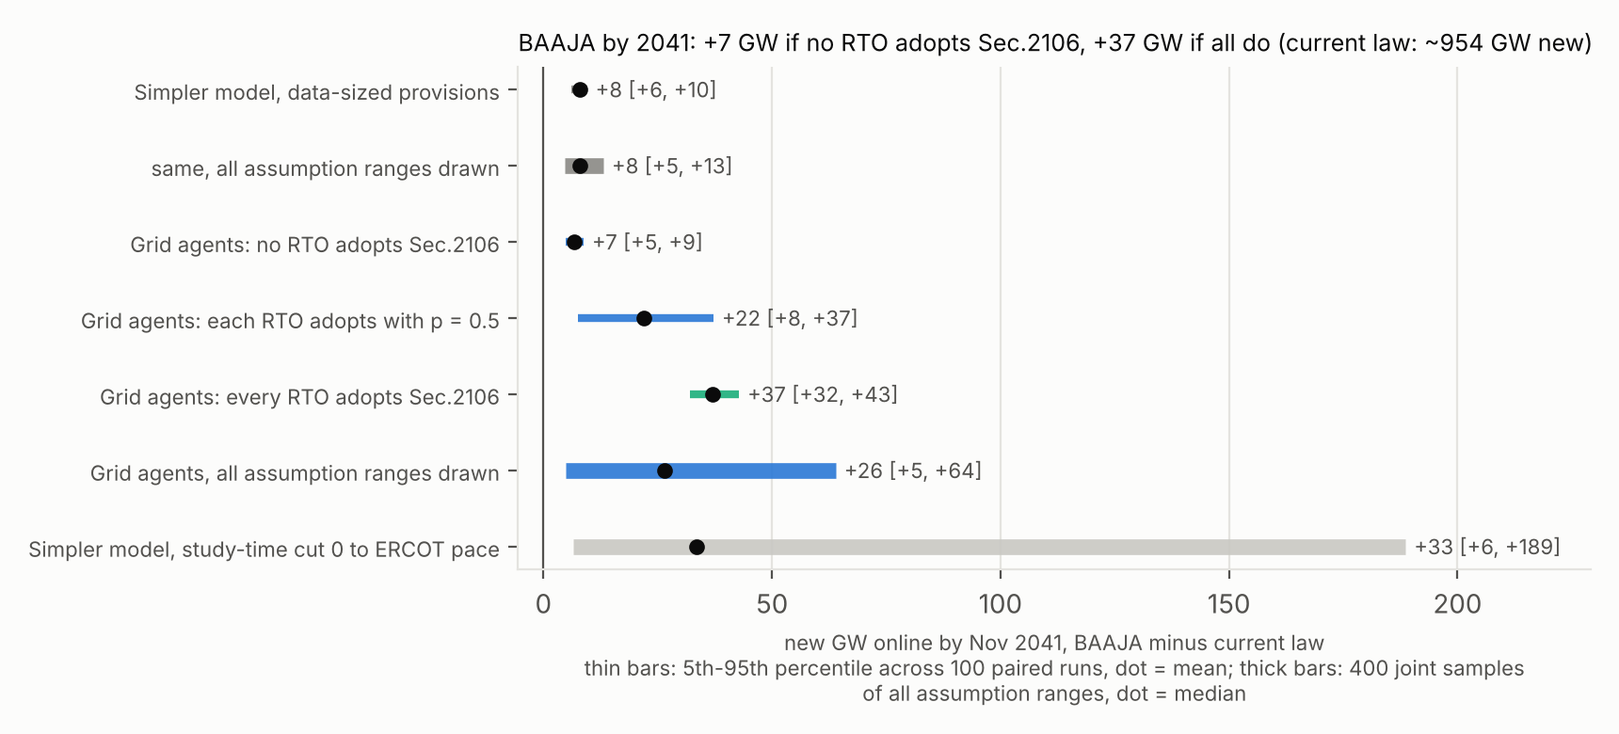
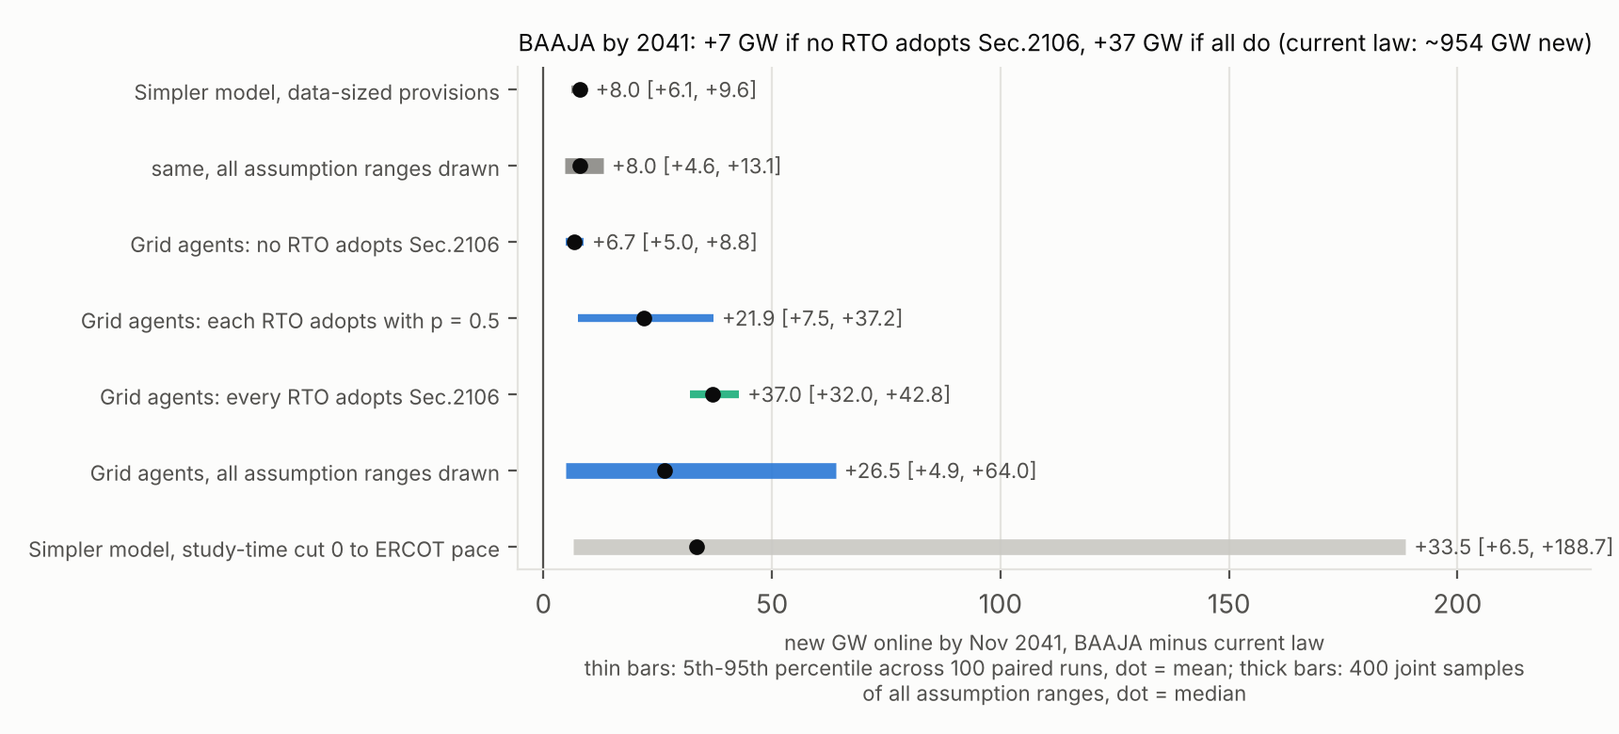
Fix the numbers audit's findings in the brief, README, ODD and Sim 7 report
Completion-fit and hold-bound statements corrected, bill-share range, the four
missing sensitivity rows, one-decimal figure labels, the region list at the
hold bound computed from the fit, and stale README backcast values.

Claude-Session: https://claude.ai/code/session_01GDxCQ74zWfkXRRHvDcr5pD

diff --git a/baaja/sims/sim7_grid_agents.py b/baaja/sims/sim7_grid_agents.py
@@ -215,6 +215,9 @@ def run(n_runs, cal, res_dir, fig_dir, sweep_runs=None):
     t_vm = table(["technology", "region", "value scale (fitted to completion)"],
                  [[*(k.split("|") if "|" in k else (k, "all (pooled)")), f"{v:.2f}"]
                   for k, v in sorted((gc.get("value_mult") or {}).items())])
+    lags = gc.get("exit_lag") or {}
+    bound = [r for r, v in lags.items() if v >= 239.5]
+    at_bound = ", ".join(bound[:-1]) + " and " + bound[-1] if len(bound) > 1 else (bound[0] if bound else "no region")
     t_hz = table(["region", "background withdrawal hazard, %/month: first 12 months", "after 12 months, to construction",
                   "mean hold after an adverse study result, months"],
                  [[r, *(f"{100 * x:.2f}" for x in (v if np.ndim(v) else (v, v))),
@@ -292,7 +295,7 @@ def run(n_runs, cal, res_dir, fig_dir, sweep_runs=None):
         "longer fixed by the 2021-25 request mix, but fewer projects get through the queue overall.",
         t_adq,
         t_adr,
-        "## By region (requests made 2026-30; mean across runs)",
+        "## By region (requests made in the first five model years, Nov 2026 to Oct 2031; mean across runs)",
         t_reg,
         "## Validation",
         "### Grid operators: months from request to signed agreement, by request year (LBNL)",
@@ -300,12 +303,12 @@ def run(n_runs, cal, res_dir, fig_dir, sweep_runs=None):
         "squared difference in the share signed by Dec 2025, by cohort. Regions without reliable agreement dates take "
         "the joint MISO+CAISO fit.",
         t_ops,
-        "### Developers: share of requests withdrawn by months after request (2015-19 cohorts vs model 2026-30)",
+        "### Developers: share of requests withdrawn by months after request (2015-19 cohorts vs model requests of Nov 2026 to Oct 2031)",
         "Withdrawal is fitted in the 2010-25 backcast, where model and data cohorts are the same requests (Phase 3; "
         "results/backcast.md): a first-year hazard, a later hazard and a hold after an adverse study result, by region, "
-        "to LBNL's 12-, 36- and 60-month shares; 24 months is a check. This table shows the forward 2026-30 cohorts under "
+        "to LBNL's 12-, 36- and 60-month shares; 24 months is a check. This table shows the forward cohorts of the first five model years under "
         "current law next to the 2015-19 data for comparison only: the queue they face is different, so they need not match. "
-        "In CAISO, ISO-NE, MISO and NYISO the fitted hold reaches its 20-year bound: developers with an adverse result stay "
+        f"In {at_bound} the fitted hold reaches its 20-year bound: developers with an adverse result stay "
         "in the queue past 2025, and the data cannot tell a long hold from never withdrawing. Sec.2106(a)(3)'s single "
         "decision point and withdrawal penalties shorten the hold (lag_2106).",
         t_wd,

diff --git a/baaja/brief_figures.py b/baaja/brief_figures.py
@@ -36,7 +36,7 @@ def headline(res_dir, path):
         mid = b.get("p50", b["mean"])
         ax.plot([b["p5"], b["p95"]], [i, i], color=c, lw=6 if kind == "joint" else 3, solid_capstyle="butt", alpha=.9)
         ax.plot(mid, i, "o", color=INK, ms=5)
-        ax.text(b["p95"] + (hi - lo) * .01, i, f"{mid:+.0f} [{b['p5']:+.0f}, {b['p95']:+.0f}]", va="center", fontsize=8, color=INK2)
+        ax.text(b["p95"] + (hi - lo) * .01, i, f"{mid:+.1f} [{b['p5']:+.1f}, {b['p95']:+.1f}]", va="center", fontsize=8, color=INK2)
     ax.set_yticks(range(len(rows)), [x[0] for x in rows[::-1]], fontsize=8)
     ax.axvline(0, color=INK2, lw=.8)
     ax.set_xlim(min(lo, 0) - (hi - lo) * .03, hi + (hi - lo) * .22); ax.grid(axis="y", visible=False)
@@ -62,7 +62,7 @@ def regions(res_dir, path):
         x = np.arange(len(regs)) + (j - 1) * w
         ax.bar(x, v, w * .95, color=c, label=lab)
         for xi, vi in zip(x, v):
-            ax.text(xi, vi + (.3 if vi >= 0 else -1.2), f"{vi:.0f}", ha="center", fontsize=6.5, color=INK2)
+            ax.text(xi, vi + (.3 if vi >= 0 else -1.2), f"{vi:.1f}", ha="center", fontsize=6, color=INK2)
     ax.set_xticks(range(len(regs)), regs, fontsize=8); ax.grid(axis="x", visible=False); ax.axhline(0, color=INK2, lw=.8)
     ax.set_ylabel("new GW by 2041 vs current law")
     ax.set_title("Grid agents, by region (Sec.2106 applies only in RTO/ISO markets, not ERCOT, the Southeast or the West)",

diff --git a/docs/brief.md b/docs/brief.md
@@ -23,7 +23,7 @@ non-refundable security and withdrawal penalties keep out. If they keep out half
 quarter, Sec.2106 adds nothing. How the screen is specified matters too: I first specified it as an absolute
 threshold on each request's chance of completing, and under that version the bill reduces capacity by 2 GW. I
 changed to the relative version after seeing those results (section 2), and report both. Drawing every assumption
-range together gives a median of 26.5 GW [4.9, 64.0].
+range together gives a median of 26.5 GW [4.9, 64.0] (5th-95th percentile of 400 joint samples).
 
 Little changes before the early 2030s. The model assumes reformed interconnection studies start about three years
 after enactment (range two to four; the bill gives FERC 18 months for the rule and RTOs two years to file), and that
@@ -39,7 +39,7 @@ in 2041, most of it in PJM, where NERC's margin rises from 18.6% to 35.1%. BAAJA
 [0.3, 6.4]. The shortfall is a benchmark against NERC's planning margins, not a forecast of outages, and the bill
 does not close it.
 
-The bill's gain in clean capacity here, 16.9 GW of renewables and storage by November 2041, is at the low end of
+The bill's gain in clean capacity here, 16.9 GW of renewables and storage by November 2041, is just below the low end of
 Rhodium Group's 17 to 249 GW through 2040 and well below Resources for the Future's figure of about 60 GW by 2028.
 The difference has several sources that cannot be separated from outside: both studies expand transmission under
 the bill and this model does not plan any; RFF attributes its near-term gain mainly to permit certainty; and each
@@ -55,7 +55,7 @@ BAAJA is a permitting and transmission bill. The provisions that bear on generat
 | group | main sections modelled | what changes in the model |
 |---|---|---|
 | Permitting | 1105-1106 and 1108 (level of review; one-year EA and two-year EIS deadlines), 1202 (one-year Clean Water Act s.401 clock), 1302 (ESA consultation timeline), 2213 (federal-land rights-of-way clocks), 2229 | months to a federal permit |
-| Courts | 1110 and 2201 (150-day limit to sue, comment exhaustion, remand without vacatur); 1134, 1205 and 1305 extend the same limits to other statutes | how many suits are filed and how many halt a project |
+| Courts | 1110 and 2201 (150-day limit to sue, comment exhaustion, remand without vacatur); 1134 extends the same limit to FAST-41 claims (1205 and 1305, for s.404 and ESA opinions, are listed but not modelled separately) | how many suits are filed and how many halt a project |
 | Permit certainty | 1401 | whether a permit can be revoked or suspended after issue |
 | Grid access | 2106 (interconnection reform in RTOs/ISOs), 2110 (study automation), 2109 (advanced transmission technologies), 2101, 2102(a) and 2214 (transmission permitting) | who enters the interconnection queue, who leaves it, how long studies take, how much hosting room the grid has |
 
@@ -128,14 +128,15 @@ from the queue. Its results appear alongside as a check and are labelled as such
 All inputs are public. Sources, retrieval dates and file hashes are in `data/SOURCES.md`.
 
 - Interconnection: LBNL *Queued Up* workbook (requests through 2025) and LBNL interconnection-cost studies for MISO,
-  PJM, SPP, NYISO and ISO-NE. The CAISO, MISO and NYISO queue files were downloaded for cross-checks but are not
+  PJM, SPP, NYISO, ISO-NE and non-ISO balancing areas (used for the Southeast and West). The CAISO, MISO and NYISO queue files were downloaded for cross-checks but are not
   used.
 - Permitting: CEQ EIS timelines, BLM MLRS rights-of-way cases, Army Corps permit data.
-- Courts: 1,821 NEPA cases decided 2001-22; Sabin Center renewable-opposition database.
+- Courts: 1,821 NEPA cases filed 2001-22; Sabin Center renewable-opposition database.
 - Fleet, retirements and generation: EIA-860 (2015-2025), EIA-860M, EIA-923.
 - Demand and adequacy: NERC 2025 Long-Term Reliability Assessment; PJM ELCC class ratings.
 - Bill text: the Senate floor copy of S.Amdt. 6883 (KAT26804 V62), checked against the engrossed Senate amendment to
-  H.R. 2347 (GovInfo, BILLS-119hr2347eas). Every modelled section is identical word for word.
+  H.R. 2347 (GovInfo, BILLS-119hr2347eas). Sections 1105, 1106, 1108, 1110, 1202, 1302, 1401, 2106-2110, 2201, 2213 and 2229
+  are identical word for word; the other modelled sections were not compared.
 
 ## 4. Results
 
@@ -152,8 +153,8 @@ excludes relicensed hydro, which is reported separately.
 | BAAJA, every RTO changes its process | +37.0 [+32.0, +42.8] | +24.7 | +9.2 | +3.1 |
 | BAAJA, central, plus a 25% study-throughput gain under Sec.2110 | +37.4 [+26.1, +49.3] | +23.3 | +8.4 | +5.8 |
 
-Current law brings about 954 GW of new capacity online by November 2041 [939, 972]. The bill adds 2% to 4% to that,
-depending on how many RTOs change their process. The first row, which keeps every provision except Sec.2106, contains
+Current law brings about 954 GW of new capacity online by November 2041 [939, 972]. The bill adds 0.7% to 3.9% to that
+(2.3% in the central case), depending on how many RTOs change their process. The first row, which keeps every provision except Sec.2106, contains
 Titles I and II (permitting and courts), Sec.2109 and Sec.2110 at zero; Sec.2109's extra hosting room adds about 4 GW
 to the central case (+17.8 GW without it). Relicensed hydro that returns to service sooner adds a further 1.8 GW in
 every bill scenario.
@@ -179,7 +180,7 @@ first row.
 The bill adds under 1 GW before 2033. The permitting and court provisions add a little each year from the start.
 Sec.2106 applies only to requests made after the rule takes effect (late 2029 in the central case), and the first of
 those come online in 2033. Current-law additions peak at 118 GW in 2029, while the queue standing at the end of 2025
-is being built, then settle around 45 to 60 GW a year.
+is being built, then settle at 44 to 62 GW a year.
 
 ### 4.3 Where
 
@@ -190,10 +191,10 @@ GW. ERCOT, the Southeast and the non-ISO West gain 0.5 to 1.9 GW each from the p
 
 PJM gains almost nothing from Sec.2106: 0.5 GW in the central case and 0.7 GW if every RTO changes its process, the
 same as with Sec.2106 off. If every RTO changes its process, Sec.2106 does shorten PJM's studies (from 30 to 28 months to
-agreement) and raise the share of requests that sign, but the entry screen offsets it. The screen keeps out the requests least likely to complete as
+agreement, median for requests made in the first five years) and raise the share of requests that sign, but the entry screen offsets it. The screen keeps out the requests least likely to complete as
 ranked by their private value. In PJM, whether a request completes depends more on its upgrade-cost draw than on its
-value: 13.7% of PJM requests in LBNL's cost study pay no network upgrade, and PJM's cost spread is the widest of the
-regions with LBNL cost studies. So in PJM the screen also keeps out requests that would have completed. In a diagnostic run
+value: 13.7% of PJM requests in LBNL's cost study pay no upgrade cost at all, and PJM's cost spread is the widest of the
+five ISOs with LBNL cost studies (log standard deviation 1.50, against 1.39 or less). So in PJM the screen also keeps out requests that would have completed. In a diagnostic run
 without the screen, PJM gains from Sec.2106 as MISO does. This is a property of the modelled screen, which treats a
 deposit as screening on value, and a deposit that screened on cost information would behave differently.
 
@@ -230,8 +231,9 @@ BAAJA reduces the 2035 shortfall by 3.1 GW [0.3, 6.4] in the central case and by
 process; by 2041 the reductions are 5.7 and 10.3 GW. The bill does not close the gap. Most of the shortfall is in PJM,
 where the bill adds little (section 4.3). The simpler model, with historical study times (Sim 6,
 `results/sim6_supply.md`), shows MISO and ISO-NE first falling below their margins in 2027 (median first year across
-runs) and staying close to them: in 2035 MISO's reserve margin is 8.4% against a Reference Margin Level of 8.9%, and
-ISO-NE's 11.8% against 13.0%, below the level in 66% and 71% of runs.
+runs; MISO's margin is 0.8% against 8.3% that year) and close to them by 2035: MISO's reserve margin is then 8.4%
+against a Reference Margin Level of 8.9%, and ISO-NE's 11.8% against 13.0%, below the level in 66% and 71% of runs.
+With the grid agents the 2035 margins are lower, 5.2% in MISO and 11.0% in ISO-NE.
 
 These figures are a benchmark against planning margins. They are not a forecast of outages: apart from developers entering faster where a shortfall is projected,
 the model has no response from prices, no demand response beyond NERC's forecast and no delayed retirements, all of
@@ -258,6 +260,10 @@ draws every assumption at once, 400 Latin-hypercube samples, and splits the vari
 | cost rise for remaining requests per withdrawn MW (0.1 / 0.6) | +13.6 / +21.5 |
 | share able to use a published location (0.25 / 0.9) | +16.9 / +18.3 |
 | fee as a multiple of expected upgrade cost (1.5 / 0.8) | +16.8 / +18.4 |
+| hosting room added per transmission project, GW (0.5 / 3.0) | +14.4 / +22.0 |
+| entry response to the region's projected shortfall (0 / 3) | +18.0 / +14.7 |
+| entry response to the published wait (0 / 1) | +16.7 / +18.4 |
+| hold after an adverse study result under Sec.2106, relative to current law (0 / 1) | +17.4 / +17.4 |
 
 The bill's effect is most sensitive to the assumptions about how Sec.2106 and Sec.2110 are carried out, none of which
 the statute sizes. Upgrade-cost growth (`kappa`) matters more for the level of current law than for the bill's
@@ -272,7 +278,7 @@ in RTOs that changed their process in that sample, followed by the Sec.2110 gain
 upgrade-cost growth (6%) and Sec.2109 hosting room (6%). Split by the adoption that happened, the median is +13.3 GW
 when no RTO changed its process, +26.5 GW when some did and +39.3 GW when all did.
 
-In the simpler model, with Sec.2106 and Sec.2110 at zero, the result is +8.0 GW [+4.6, +13.1], and 52% of its
+In the simpler model, with Sec.2106 and Sec.2110 at zero, the result is a median of +8.0 GW [+4.6, +13.1], and 52% of its
 variance comes from one assumption: the share of new applications for rights-of-way on federal land whose Sec.2213
 intake deadlines are met. When that model's study-time cut for Sec.2106 is instead drawn from zero to ERCOT's pace, the range becomes
 +33.5 GW [+6.5, +188.7], with 76% of the variance from that cut alone. That is the gap the grid-agent model was built
@@ -282,8 +288,9 @@ data, and narrows the upper end from 189 to 64 GW.
 ## 6. Validation
 
 The model was run from January 2010 to December 2025 under current law and compared with what happened
-(`results/backcast.md`, `results/calibration.json`). It passes some tests and fails others, and the failures bear on
-the result.
+(`results/backcast.md`, `results/calibration.json`). Following the pattern-oriented approach (Grimm et al. 2005;
+Windrum et al. 2007), it is checked against several patterns at once, some of them left out of the fit. It passes some
+tests and fails others, and the failures bear on the result.
 
 What was fitted, and to what. Grid operators' study throughput was fitted to LBNL request-to-agreement times for
 2010-19 cohorts; CAISO, ERCOT and MISO have their own fit, and the other six regions, which lack reliable agreement
@@ -297,14 +304,17 @@ National additions, 2018-25 (EIA-860, not used in fitting). The agents produce 6
 127.2 GW), 82% of onshore wind, 80% of gas and 45% of storage (19.5 vs 43.1 GW). The simpler model with historical
 study times does better (82%, 100%, 84% and 108%). Both miss the 2024-25 jump in solar (31 and 30 GW in EIA); the agents also miss the jump in storage. By region, the
 weighted mean absolute log ratio of model to EIA additions is 0.51 for the agents and 0.42 for the simpler model;
-MISO, where much of the Sec.2106 effect sits, has a ratio of 0.51, and storage in PJM is 3.9 GW in the model against
+MISO, where much of the Sec.2106 effect sits, builds 0.51 of EIA's additions (24.0 against 46.8 GW), and storage in PJM is 3.9 GW in the model against
 0.4 GW in EIA.
 
 ![Backcast: model vs EIA-860 additions, 2018-25](../figures/brief_5_backcast.png)
 
-Completion by technology and region. All but one cell fits within a third of the LBNL rate. ERCOT storage completes
-at 18.4% in the model against 11.7% in the data. Its value scale is at the lower bound of its range, and 17% of
-ERCOT requests have no network-upgrade cost, so even the lowest value leaves too many completing. Five value scales
+Completion by technology and region. Of the 28 cells with an LBNL completion rate of at least 5%, all but two are
+within 35% of it. ERCOT storage completes at 18.4% in the model against 11.7% in the data: its value scale is at the
+lower bound of its range, and 17% of requests in the pooled ISO cost sample that stands in for ERCOT (LBNL has no
+ERCOT cost study) have no upgrade cost, so even the lowest value leaves too many completing. Geothermal outside the
+West completes at 25.3% against 13.7%. Below 5%, storage in SPP and MISO and offshore wind miss by more than a third,
+each by under 2 points. Five value scales
 sit at that lower bound (solar in SPP; storage in ERCOT, PJM and SPP; offshore wind), so in those cells the fitted
 value is a corner, not an estimate.
 
@@ -313,8 +323,8 @@ by at most 0.05 in every region. The 2020-23 cohorts, used in no fit, are a diff
 0.59 in CAISO against 0.12 in the data, 0.30 in PJM against 0.13, 0.40 in NYISO against 0.72 and 0.09 in the West
 against 0.33. The data's withdrawal rates for these cohorts differ from 2015-19 in both directions, and the model's
 hazards, fixed at their 2015-19 values, do not follow them. The fitted hold after an adverse study result is at its
-240-month upper bound in five of nine regions, which means the model finds no hold short enough to fit those regions'
-60-month shares; it delays when a withdrawal is recorded rather than whether it happens.
+240-month upper bound in five of nine regions, which means no hold within the bound is long enough to bring those regions' 60-month withdrawal shares
+down to the data (MISO 0.74 against 0.62); it delays when a withdrawal is recorded rather than whether it happens.
 
 Study times out of sample. MISO's lengthening from about 21 to 45 months, between the 2010 and 2019 cohorts, falls within the fitted
 cohorts. For the

diff --git a/README.md b/README.md
@@ -164,7 +164,7 @@ on the same requests; EIA-860 additions by region use nameplate capacity (region
 | 2018-25 additions, model / EIA-860 | solar | onshore wind | gas | storage |
 |---|---|---|---|---|
 | Exogenous grid (Sims 1-6) | 0.82 | 1.00 | 0.84 | 1.08 |
-| Grid agents (Sim 7) | 0.67 | 0.81 | 0.80 | 0.42 |
+| Grid agents (Sim 7) | 0.68 | 0.82 | 0.80 | 0.45 |
 
 - **By region** the error is larger than nationally: weighted mean absolute log ratio across regions 0.42 (exogenous)
   and 0.51 (agents). Both models put too little solar and storage in ERCOT and CAISO and too much in PJM, ISO-NE and
@@ -174,7 +174,7 @@ on the same requests; EIA-860 additions by region use nameplate capacity (region
   request to operation in the agents (39-60 with the exogenous grid), so many finish after 2025. Most of the gap is
   in CAISO and ERCOT and is the same gap as "completed projects are not selected for short waits" (known limits).
 - **Withdrawal timing of 2015-19 requests** (fitted at 12, 36 and 60 months): the agents match LBNL by region within
-  0.03 at 12 and 36 months, and within 0.05 at 24 months (not fitted). At 60 months MISO is 0.75 vs 0.62 even with its
+  0.01 at 12 and 36 months, and within 0.05 at 24 months (not fitted). At 60 months MISO is 0.74 vs 0.62 even with its
   hold at the bound. The exogenous model withdraws about 65% of requests by month 12 everywhere (data 9-58%).
 - **Holdout (2020-23 requests, used in no fit)** is mixed: the agents withdraw too fast in CAISO (0.59 vs 0.12 by month
   12) and too slowly in SPP (0.13 vs 0.30).
@@ -251,7 +251,7 @@ the JSON summaries in `data/` from them.
 | `demand_growth_mult` | 0.5 | 1.0 | 1.5 | Supply: multiplier on NERC's forecast demand growth |
 | `entry_wait_elast` | 0 | 0.3 | 1.0 | Grid agents: elasticity of new requests to the published wait |
 | `scarcity_beta` | 0 | 1 | 3 | Grid agents: developer value and entry rise with the region's projected shortfall (4 years ahead) |
-| `kappa` | 1.56 | 2.17 | 5.14 | Grid agents: growth of upgrade cost with capacity signed. **From data**: LBNL cost studies, 2018+ vs 2010-17 requests |
+| `kappa` | 0 | 2.17 | 5.14 | Grid agents: growth of upgrade cost with capacity signed (0 in ERCOT, which does not allocate network upgrades to generators). **From data**: LBNL cost studies, 2018+ vs 2010-17 requests |
 | `restudy_rho`, `restudy_months` | 0.1, 3 | 0.3, 6 | 0.6, 12 | Grid agents: re-study cost rise after withdrawals; months from first result to agreement in cluster regions |
 | `tx_hosting_gw` | 0.5 | 1.5 | 3.0 | Grid agents: GW of interconnection room added by one transmission project |
 | `adopt_2106` | 0 | 0.5 | 1.0 | Sec.2106(d): chance that an RTO's process changes rather than being found compliant, drawn per RTO |
@@ -271,7 +271,7 @@ of a truncated review (1.6); halt probabilities other than offshore wind.
   7-9%; FWS publishes no list of specific eagle permits, so the true share is somewhat higher.
 - **EA/CE data are BLM and DOE only.** Corps, USFS and FWS reviews are missing, so EA/CE suit rates are scaled down by a range.
 - **Backcast fit is national, not regional** (Validation): regional additions miss by about 40-50% on average, and the
-  grid agents' 2018-25 storage is 0.42 of EIA's.
+  grid agents' 2018-25 storage is 0.45 of EIA's.
 - **Gas pipelines and LNG are not simulated**; Sim 2 compares their litigation (10 NEPA cases a year vs 4 for renewables) from data.
 - **No prices or emissions.** In Sims 1-6 arrivals stay at the 2021-25 average (or 2025's mix); only Sim 7's grid
   agents let new requests respond to waits and regional scarcity. Demand is NERC's forecast, not modelled.
@@ -285,7 +285,7 @@ of a truncated review (1.6); halt probabilities other than offshore wind.
     raise withdrawal in the model, so completed projects are not selected for short waits; in the backcast this
     pushes 2020-22 storage and solar past 2025;
   - withdrawal timing is fitted in the backcast with a first-year and a later background hazard and a hold after an
-    adverse study result; the hold sits at its 20-year bound in CAISO, ISO-NE, MISO and NYISO, i.e. those requests
+    adverse study result; the hold sits at its 20-year bound in CAISO, ERCOT, ISO-NE, MISO and NYISO, i.e. those requests
     stay in the queue rather than withdraw, and MISO still withdraws too much by month 60;
   - MISO's modelled wait to agreement (about 27-35 months) is shorter than recent cohorts (45-50);
   - SPP and the West have no queue data of their own and use pooled operator settings that fit poorly.

diff --git a/results/sim7_grid_agents.md b/results/sim7_grid_agents.md
@@ -59,7 +59,7 @@ With grid agents, developers respond to their region's projected shortfall, so s
 | Southeast | 29% / 29% | 0.0 / 0.0 |
 | West | 40% / 30% | 0.0 / 0.0 |
 
-## By region (requests made 2026-30; mean across runs)
+## By region (requests made in the first five model years, Nov 2026 to Oct 2031; mean across runs)
 
 | region | law: requests/yr | law: months to agreement | law: share signed | law: withdrawn at results | law: GW online 2041 | BAAJA: requests/yr | BAAJA: months | BAAJA: share signed | BAAJA: GW | 2106 everywhere: GW |
 |---|---|---|---|---|---|---|---|---|---|---|
@@ -91,9 +91,9 @@ Fitted on 2010-19 cohorts; 2020-24 cohorts are a holdout. Error: mean squared lo
 | Southeast | pooled (MISO+CAISO) | 12/serial | 24 | 0.52 | 0.00 |  | - |
 | West | pooled (MISO+CAISO) | 12/serial | 24 | 0.72 | 0.46 | 2010: 36/12; 2014: 31/12; 2017: 43/27; 2019: 50/27 | 2020: 49/22; 2021: 50/22 |
 
-### Developers: share of requests withdrawn by months after request (2015-19 cohorts vs model 2026-30)
+### Developers: share of requests withdrawn by months after request (2015-19 cohorts vs model requests of Nov 2026 to Oct 2031)
 
-Withdrawal is fitted in the 2010-25 backcast, where model and data cohorts are the same requests (Phase 3; results/backcast.md): a first-year hazard, a later hazard and a hold after an adverse study result, by region, to LBNL's 12-, 36- and 60-month shares; 24 months is a check. This table shows the forward 2026-30 cohorts under current law next to the 2015-19 data for comparison only: the queue they face is different, so they need not match. In CAISO, ISO-NE, MISO and NYISO the fitted hold reaches its 20-year bound: developers with an adverse result stay in the queue past 2025, and the data cannot tell a long hold from never withdrawing. Sec.2106(a)(3)'s single decision point and withdrawal penalties shorten the hold (lag_2106).
+Withdrawal is fitted in the 2010-25 backcast, where model and data cohorts are the same requests (Phase 3; results/backcast.md): a first-year hazard, a later hazard and a hold after an adverse study result, by region, to LBNL's 12-, 36- and 60-month shares; 24 months is a check. This table shows the forward cohorts of the first five model years under current law next to the 2015-19 data for comparison only: the queue they face is different, so they need not match. In CAISO, ERCOT, ISO-NE, MISO and NYISO the fitted hold reaches its 20-year bound: developers with an adverse result stay in the queue past 2025, and the data cannot tell a long hold from never withdrawing. Sec.2106(a)(3)'s single decision point and withdrawal penalties shorten the hold (lag_2106).
 
 | region | withdrawn by 12 months: model / data | withdrawn by 24 months: model / data | withdrawn by 36 months: model / data | withdrawn by 60 months: model / data |
 |---|---|---|---|---|

diff --git a/HANDOFF.md b/HANDOFF.md
@@ -174,7 +174,7 @@ outputs had been from Phase 1).
   so no selection for short waits). In the backcast, 2020-22 storage and solar requests take 62-66 months to operate
   (exogenous model 39-60), so the agents build only 0.42 (storage), 0.67 (solar) and 0.81 (wind) of EIA-860's
   2018-25 additions, most of the gap in CAISO and ERCOT; near-term current-law build with agents is conservative.
-  In CAISO, ISO-NE, MISO and NYISO the fitted hold after an adverse result reaches its 20-year bound (the data cannot
+  In CAISO, ERCOT, ISO-NE, MISO and NYISO the fitted hold after an adverse result reaches its 20-year bound (the data cannot
   tell a long hold from never withdrawing); MISO's 60-month share stays high (0.75 vs 0.62). The 2020-23 withdrawal
   holdout is mixed by region (PJM and CAISO withdraw less early in the data than the model; SPP, West and NYISO more).
   SPP and West use pooled operator settings. ERCOT's LBNL withdrawal shares are probably too low (thin early data).

diff --git a/docs/ODD.md b/docs/ODD.md
@@ -84,7 +84,8 @@ agreements are issued on their dates, and developers decide.
   emerges from which RTOs adopt and how many requests are deterred or kept.
 - **Adaptation.** Developers stay if their allocated cost is below their value (raised by regional scarcity); they
   enter less when the published wait is longer and more when their region's projected shortfall grows; under
-  Sec.2106(a)(3) they do not enter when their chance of completing is below a threshold. Operators adapt throughput to
+  Sec.2106(a)(3), in an RTO that changes its process, the share `screen_2106` of new requests least likely to complete
+  within their technology and region do not enter (requests at published locations are exempt). Operators adapt throughput to
   the arrival rate.
 - **Objectives.** Developers: proceed while expected value exceeds cost. Operators have no objective; they follow
   fitted rules.
